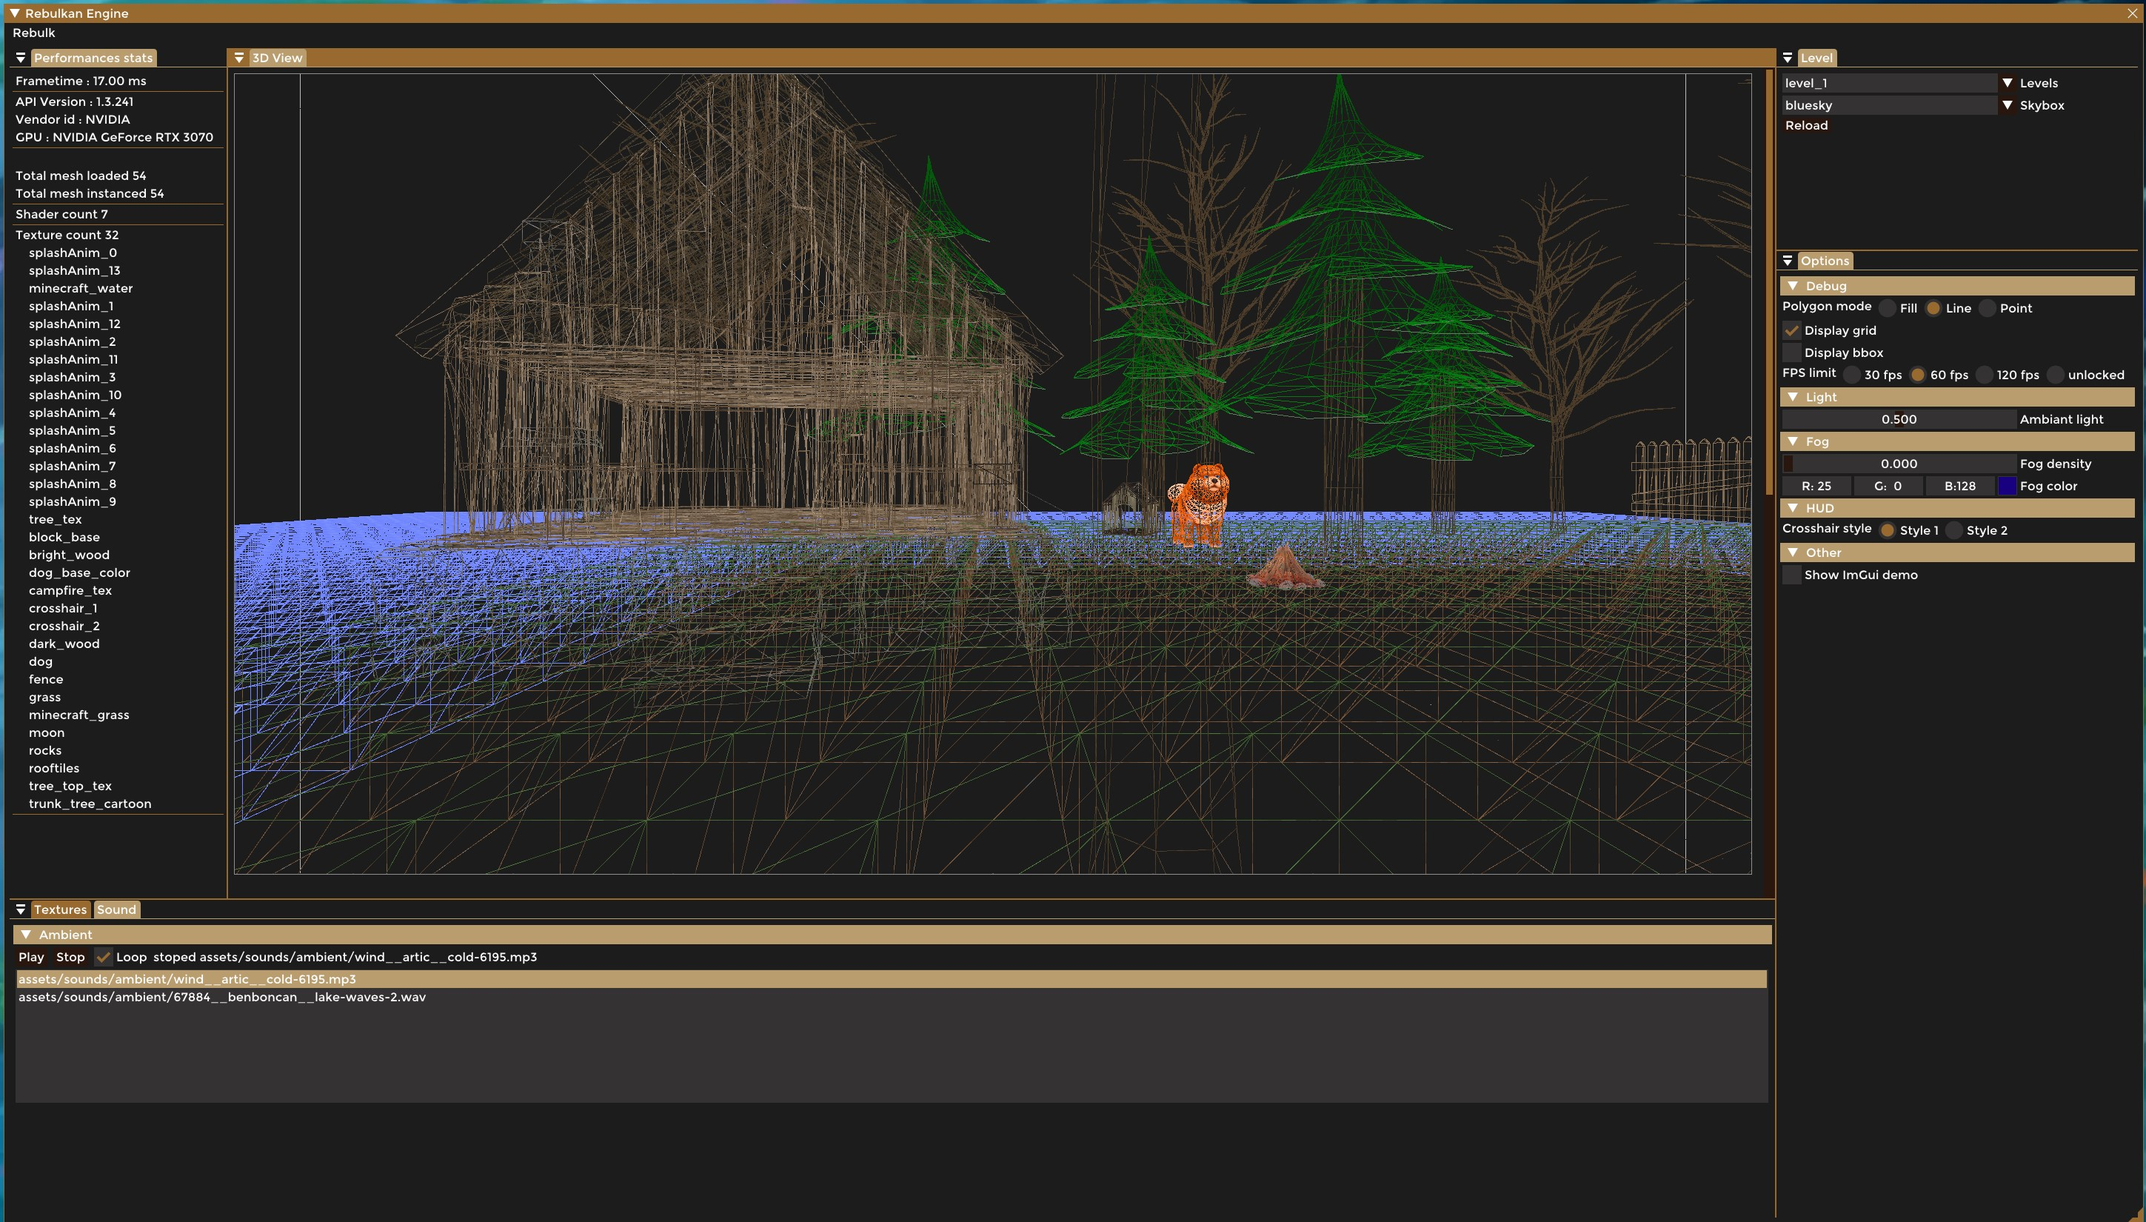
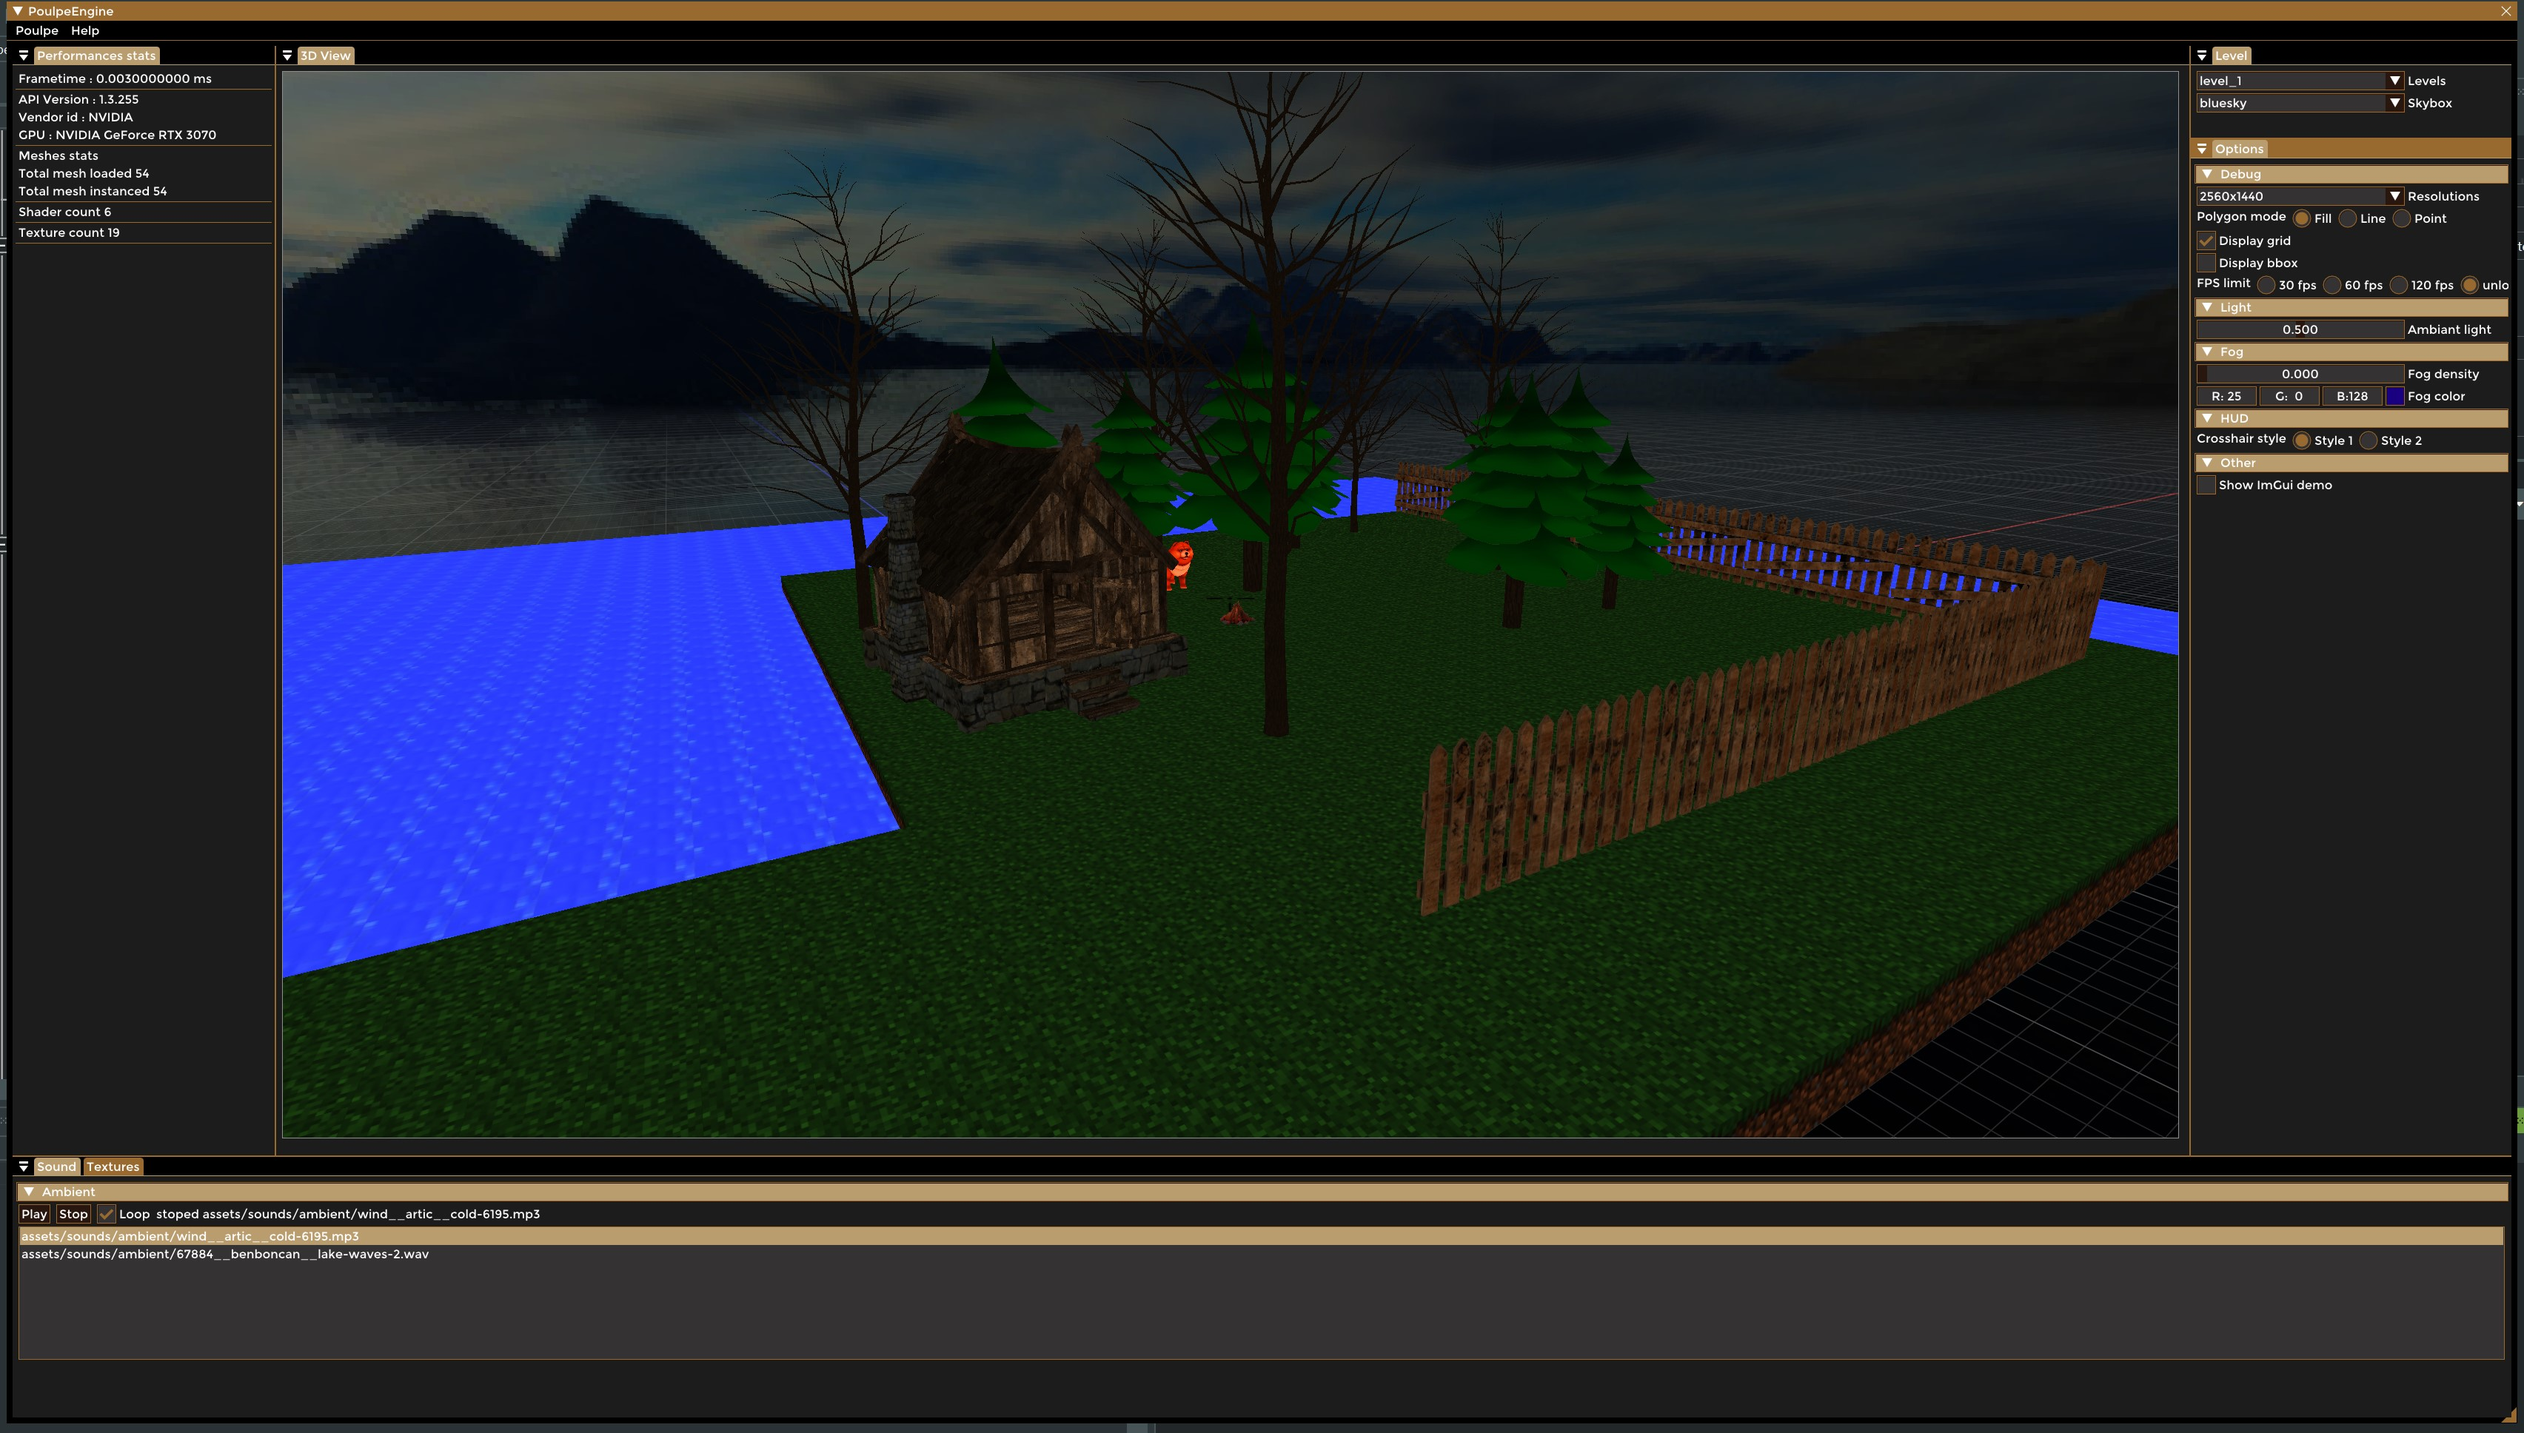
improvements
Former-commit-id: fee791612e519c03d7514955b536d2ea14e60571 [formerly 03e47bdd26ec091b08577216087cac81d4ed25a4] [formerly d4ab14af6dd67f073538f0cd71a974561c5f1cdd] [formerly 0422ae6f8becfe824e13bf38b3f71a84ac37c8f0 [formerly 765ecd9f86692ad1137a9dd1e2c2faf52e2743ca] [formerly d4ab14af6dd67f073538f0cd71a974561c5f1cdd [formerly d4ab14af6dd67f073538f0cd71a974561c5f1cdd [formerly bc688f4ef9aa479f9231a25d2c086af5409653f7]]]]
Former-commit-id: ea488f70e1d663371339ef0b6327a95939ec7d90 [formerly 292a9b0a506ff924e13918fdb84fbeeb2da1c12e] [formerly a9a71b4f85241183937d3e097cfd31f517d5f562 [formerly 88a35d786c6461bf938d9b16b731b7906280e043]]
Former-commit-id: a9a71b4f85241183937d3e097cfd31f517d5f562
Former-commit-id: 4173a884535d19c3b5c07d291844a1b93964bcc6
Former-commit-id: 3a248be2bc651c89a40a3eb81e3b485249819a95

diff --git a/src/Poulpe/Manager/RenderManager.cpp b/src/Poulpe/Manager/RenderManager.cpp
@@ -1,6 +1,7 @@
 #include "RenderManager.hpp"
 
 #include "Poulpe/Component/RenderComponent.hpp"
+#include "Poulpe/Component/AnimationComponent.hpp"
 
 //@todo should not be pointing to Vulkan impl
 #include "Poulpe/Renderer/Vulkan/EntityFactory.hpp"
@@ -153,52 +154,13 @@ namespace Poulpe
       return ((1.0f - t) * startValue) + (t * endValue);
     }
 
-    glm::vec3 startScale = glm::vec3(0.001, 0.001, 0.001);
-    glm::vec3 endScale = glm::vec3(0.12, 0.12, 0.12);
-    float animationDuration = 3;
-    bool reverse = false;
-
-    void RenderManager::renderScene()
+    void RenderManager::renderScene(float const deltaTime)
     {
         for (auto& entity : *m_EntityManager->getEntities()) {
             auto* mesh = entity->getMesh();
-            for (auto& ubo : mesh->getData()->m_Ubos) {
-              if (!mesh->hasAnimation()) continue;
-              
-              //mesh->getData()->m_CurrentPos.x -= 0.0001;
-              //mesh->getData()->m_CurrentPos.y -= 0.0001;
-              //mesh->getData()->m_CurrentPos.z -= 0.0001;
-              if (!reverse) {
-                animationDuration -= 0.001;
-              } else {
-                animationDuration += 0.001;
-              }
-
-              if (0 > animationDuration) {
-                animationDuration = 0;
-                reverse = true;
-              } else if (3 < animationDuration) {
-                animationDuration = 3;
-                reverse = false;
-              }
-
-              auto scale = lerp(startScale, endScale, animationDuration);
-              
-              ubo.model = glm::mat4(1.0f);
-              ubo.model = glm::translate(ubo.model, mesh->getData()->m_OriginPos);
-              ubo.model = glm::scale(ubo.model, scale);
-
-              auto& rotation = mesh->getData()->m_CurrentRotation;
-              rotation.x += 0.1;
-              rotation.y += 0.1;
-              rotation.z += 0.1;
-
-              ubo.model = glm::rotate(ubo.model, glm::radians(rotation.x), glm::vec3(1.0f, 0.0f, 0.0f));
-              ubo.model = glm::rotate(ubo.model, glm::radians(rotation.y), glm::vec3(0.0f, 1.0f, 0.0f));
-              ubo.model = glm::rotate(ubo.model, glm::radians(rotation.z), glm::vec3(0.0f, 0.0f, 1.0f));
-
-              m_Renderer->rdr()->updateUniformBuffer(mesh->getUniformBuffers()->at(0), &mesh->getData()->m_Ubos);
-            }
+            if (!mesh->hasAnimation()) continue;
+            auto compo = m_ComponentManager->GetComponent<AnimationComponent>(entity->getID());
+            if (compo) compo->visit(deltaTime, mesh);
         }
 
         m_Renderer->renderScene();
@@ -227,10 +189,74 @@ namespace Poulpe
         m_ComponentManager->addComponent<RenderComponent>(entity->getID(), basicRdrImpl);
       }
 
+      //@todo temp until lua scripting
+      class AnimImpl : public IVisitor
+      {
+      public:
+          AnimImpl(VulkanAdapter* adapter)
+          {
+              m_Adapter = adapter;
+          }
+
+          void visit(float const deltaTime, Mesh* mesh) override
+          {
+              for (auto& ubo : mesh->getData()->m_Ubos) {
+
+                  //mesh->getData()->m_CurrentPos.x -= 0.0001;
+                  //mesh->getData()->m_CurrentPos.y -= 0.0001;
+                  //mesh->getData()->m_CurrentPos.z -= 0.0001;
+                  //if (!reverse) {
+                  //    animationDuration -= 1.f;
+                  //}
+                  //else {
+                  //    animationDuration += 1.f;
+                  //}
+
+                  //if (0 > animationDuration) {
+                  //    animationDuration = 0.f;
+                  //    reverse = true;
+                  //}
+                  //else if (3 < animationDuration) {
+                  //    animationDuration = 3.f;
+                  //    reverse = false;
+                  //}
+
+                  //auto scale = lerp(startScale, endScale, elapsedTime / animationDuration);
+
+                  //elapsedTime += deltaTime;
+
+                  //ubo.model = glm::mat4(1.0f);
+                  //ubo.model = glm::translate(ubo.model, mesh->getData()->m_OriginPos);
+                  //ubo.model = glm::scale(ubo.model, mesh->getData()->m_OriginScale);
+
+                  auto angle = deltaTime * (std::rand() % 100);
+
+                  ubo.model = glm::rotate(ubo.model, glm::radians(angle), mesh->getData()->m_OriginPos);
+
+                  m_Adapter->rdr()->updateUniformBuffer(mesh->getUniformBuffers()->at(0), &mesh->getData()->m_Ubos);
+              }
+
+          }
+
+          VulkanAdapter* m_Adapter;
+          float animationDuration = 3.f;
+          float elapsedTime = 0.f;
+          bool reverse = false;
+          glm::vec3 startScale = glm::vec3(0.001, 0.001, 0.001);
+          glm::vec3 endScale = glm::vec3(0.12, 0.12, 0.12);
+      };
+
+      auto* animImpl = new AnimImpl(m_Renderer.get());
+
       for (auto& entity : *m_EntityManager->getEntities()) {
         if (entity->getMesh()->isDirty()) {
           auto comp = m_ComponentManager->GetComponent<RenderComponent>(entity->getID());
           entity->accept(0, comp);
+        }
+
+        //@todo temp until lua scripting
+        if (entity->getMesh()->hasAnimation()) {
+            m_ComponentManager->addComponent<AnimationComponent>(entity->getID(), animImpl);
         }
       }
     }

diff --git a/src/Poulpe/Application.cpp b/src/Poulpe/Application.cpp
@@ -2,7 +2,7 @@
 
 namespace Poulpe
 {
-    std::atomic<int> Application::s_UnlockedFPS{ 1 };
+    std::atomic<int> Application::s_MaxFPS{ 60 };
     Application* Application::s_Instance{ nullptr };
 
     Application::Application()
@@ -47,57 +47,36 @@ namespace Poulpe
     void Application::run()
     {
         auto endRun = std::chrono::time_point_cast<std::chrono::milliseconds>(std::chrono::system_clock::now());
-        auto lastTime = endRun;
-        auto timeStepSum = std::chrono::duration<double>(0.0);
-        uint32_t frameCount = 0;
-        double maxFPS = 60.0;
-        auto maxPeriod = std::chrono::duration<double>(1.0 / maxFPS);
-  
-        std::chrono::milliseconds timeStep{0};
-
+        
         PLP_WARN("Loaded scene in {}", (endRun - m_StartRun).count());//@todo readable in seconds...
 
         std::mutex mutex;
 
-         while (!glfwWindowShouldClose(m_RenderManager->getWindow()->get())) {
+        auto lastTime = std::chrono::time_point_cast<std::chrono::milliseconds>(std::chrono::system_clock::now());
 
-            if (Application::s_UnlockedFPS.load() == 0) {
-                maxFPS = 30.0;
-                maxPeriod = std::chrono::duration<double>(1.0 / maxFPS);
-            } else if (Application::s_UnlockedFPS.load() == 1) {
-                maxFPS = 60.0;
-                maxPeriod = std::chrono::duration<double>(1.0 / maxFPS);
-            } else if (Application::s_UnlockedFPS.load() == 2) {
-                maxFPS = 120.0;
-                maxPeriod = std::chrono::duration<double>(1.0 / maxFPS);
-            }
+        while (!glfwWindowShouldClose(m_RenderManager->getWindow()->get())) {
 
+            auto frameTarget = (1.0f / (s_MaxFPS.load() / 1000.0f)) / 1000.0f;
             auto currentTime = std::chrono::time_point_cast<std::chrono::milliseconds>(std::chrono::system_clock::now());
-            timeStep = currentTime - lastTime;
+            auto deltaTime = static_cast<float>(currentTime.time_since_epoch().count() - lastTime.time_since_epoch().count())
+                / 1000.0f;
 
-            if (timeStep >= maxPeriod || Application::s_UnlockedFPS.load() == 3) {
-                
-                timeStepSum += timeStep;
-                frameCount++;
+            if (deltaTime < frameTarget && s_MaxFPS.load() != 0) continue;
 
-                if (1.0 < timeStepSum.count()) {
-                    PLP_WARN("{} fps", frameCount);
-                    timeStepSum = std::chrono::duration<double>(0.0);
-                    frameCount = 0;
-                }
-                m_RenderManager->getCamera()->updateDeltaTime(timeStep.count());
+            PLP_WARN("{} ms", deltaTime);
+            
+            m_RenderManager->getCamera()->updateDeltaTime(deltaTime);
 
-                glfwPollEvents();
+            glfwPollEvents();
 
-                m_RenderManager->getRendererAdapter()->shouldRecreateSwapChain();
-                Poulpe::Locator::getCommandQueue()->execPreRequest();
-                m_VulkanLayer->render(timeStep.count());
-                m_RenderManager->renderScene();
-                m_RenderManager->draw();
-                Poulpe::Locator::getCommandQueue()->execPostRequest();
+            m_RenderManager->getRendererAdapter()->shouldRecreateSwapChain();
+            Poulpe::Locator::getCommandQueue()->execPreRequest();
+            m_VulkanLayer->render(deltaTime);
+            m_RenderManager->renderScene(deltaTime);
+            m_RenderManager->draw();
+            Poulpe::Locator::getCommandQueue()->execPostRequest();
 
-                lastTime = currentTime;
-            }
+            lastTime = currentTime;
         }
 
         Poulpe::Im::destroy();

diff --git a/src/Poulpe/GUI/Layer/VulkanLayer.cpp b/src/Poulpe/GUI/Layer/VulkanLayer.cpp
@@ -251,7 +251,7 @@ namespace Poulpe
         Poulpe::Locator::getCommandQueue()->add(cmd);
     }
 
-    void VulkanLayer::render(double timeStep)
+    void VulkanLayer::render(float timeStep)
     {
         Poulpe::Im::newFrame();
 
@@ -489,9 +489,9 @@ namespace Poulpe
         ImGui::EndTable();
     }
 
-    void VulkanLayer::displayFpsCounter(double timeStep)
+    void VulkanLayer::displayFpsCounter(float timeStep)
     {
-        ImGui::Text("Frametime : %.2f ms", timeStep);
+        ImGui::Text("Frametime : %.10f ms", timeStep);
     }
 
     void VulkanLayer::displayAPI()
@@ -578,13 +578,13 @@ namespace Poulpe
             }
 
             ImGui::Text("FPS limit"); ImGui::SameLine();
-            auto fps = Poulpe::Application::s_UnlockedFPS.load();
-            ImGui::RadioButton("30 fps", & fps, 0); ImGui::SameLine();
-            ImGui::RadioButton("60 fps", & fps, 1); ImGui::SameLine();
-            ImGui::RadioButton("120 fps", & fps, 2); ImGui::SameLine();
-            ImGui::RadioButton("unlocked", & fps, 3);
-            if (fps != Poulpe::Application::s_UnlockedFPS.load()) {
-                Poulpe::Application::s_UnlockedFPS.store(fps);
+            auto fps = Poulpe::Application::s_MaxFPS.load();
+            ImGui::RadioButton("30 fps", & fps, 30); ImGui::SameLine();
+            ImGui::RadioButton("60 fps", & fps, 60); ImGui::SameLine();
+            ImGui::RadioButton("120 fps", & fps, 120); ImGui::SameLine();
+            ImGui::RadioButton("unlocked", & fps, 0);
+            if (fps != Poulpe::Application::s_MaxFPS.load()) {
+                Poulpe::Application::s_MaxFPS.store(fps);
             }
         }
 

diff --git a/src/Poulpe/GUI/Layer/VulkanLayer.hpp b/src/Poulpe/GUI/Layer/VulkanLayer.hpp
@@ -30,10 +30,10 @@ namespace Poulpe
         virtual ~VulkanLayer() = default;
 
         void init(Window* window) override;
-        void render(double timeStep) override;
+        void render(float timeStep) override;
         void addRenderManager(RenderManager* renderManager) override;
         void destroy();
-        void displayFpsCounter(double timeStep);
+        void displayFpsCounter(float timeStep);
         void displayAPI();
         void displayOptions();
         void displayTextures();
@@ -103,7 +103,7 @@ namespace Poulpe
         std::vector<IObserver> m_Observers{};
         static bool s_OpenAbout;
         bool m_ImgDescDone = false;
-        unsigned int m_Resolution{ 0 };
+        unsigned int m_Resolution{ 3 };
         unsigned int m_Ratio{ 0 };
     };
 }

diff --git a/src/Poulpe/Component/AnimationComponent.hpp b/src/Poulpe/Component/AnimationComponent.hpp
@@ -4,10 +4,10 @@
 
 namespace Poulpe
 {
-    class RenderComponent : public Component, public IVisitor
+    class AnimationComponent : public Component, public IVisitor
     {
     public:
-        RenderComponent() : Component() {};
+        AnimationComponent() : Component() {};
 
         //@todo mmh ? CRTP ?
         void visit(float const deltaTime, Mesh* mesh) override {

diff --git a/src/Poulpe/Manager/RenderManager.hpp b/src/Poulpe/Manager/RenderManager.hpp
@@ -13,7 +13,7 @@ namespace Poulpe
         virtual ~RenderManager() = default;
 
         void init() override;
-        void renderScene() override;
+        void renderScene(float const deltaTime) override;
         void draw() override;
         bool isLoaded()  override { return m_IsLoaded; }
         void setIsLoaded(bool loaded = true) override { m_IsLoaded = loaded; }

diff --git a/src/Poulpe/Manager/ComponentManager.hpp b/src/Poulpe/Manager/ComponentManager.hpp
@@ -46,11 +46,6 @@ namespace Poulpe
             //}
         }
 
-        template <typename T>
-        bool HasComponent() const {
-            return componentTypeMap.count(&typeid(T));
-        }
-
         std::vector<const std::type_info*> getEntityComponents(IDType entityID) { return m_ComponentsEntityMap[entityID]; }
 
     private:

diff --git a/src/Poulpe/Manager/IRenderManager.hpp b/src/Poulpe/Manager/IRenderManager.hpp
@@ -25,7 +25,7 @@ namespace Poulpe
         ~IRenderManager() = default;
 
         virtual void init() = 0;
-        virtual void renderScene() = 0;
+        virtual void renderScene(float const deltaTime) = 0;
         virtual void draw() = 0;
         virtual bool isLoaded() = 0;
         virtual void setIsLoaded(bool loaded = true) = 0;

diff --git a/src/Poulpe/Renderer/Vulkan/VulkanRenderer.hpp b/src/Poulpe/Renderer/Vulkan/VulkanRenderer.hpp
@@ -387,7 +387,7 @@ namespace Poulpe {
         VkFence m_FenceBuffer{};
 
         //@todo move to config file
-        unsigned int m_Width{ 800 };
-        unsigned int m_Height{ 600};
+        unsigned int m_Width{ 2560 };
+        unsigned int m_Height{ 1440 };
     };
 }

diff --git a/src/Poulpe/GUI/Layer/ILayer.hpp b/src/Poulpe/GUI/Layer/ILayer.hpp
@@ -14,6 +14,6 @@ namespace Poulpe
 
         virtual void init(Window* window) = 0;
         virtual void addRenderManager(RenderManager* renderManager) = 0;
-        virtual void render(double timeStep) = 0;
+        virtual void render(float timeStep) = 0;
     };
 }

diff --git a/src/Poulpe/Manager/InputManager.cpp b/src/Poulpe/Manager/InputManager.cpp
@@ -123,7 +123,7 @@ namespace Poulpe
         m_LastX = xPos;
         m_LastY = yPos;
     
-        const float sensitivity = 0.25f;
+        const float sensitivity = 0.5f;
         xoffset *= sensitivity;
         yoffset *= sensitivity;
     

diff --git a/src/Poulpe/Component/Camera.hpp b/src/Poulpe/Component/Camera.hpp
@@ -38,7 +38,7 @@ namespace Poulpe
         glm::vec3 m_CameraFront;
         float m_Yaw = -90.0f;
         float m_Pitch;
-        float m_Speed = 0.01f;
+        float m_Speed = 1.f;
         float m_DeltaTime = 1.f;
     };
 }
